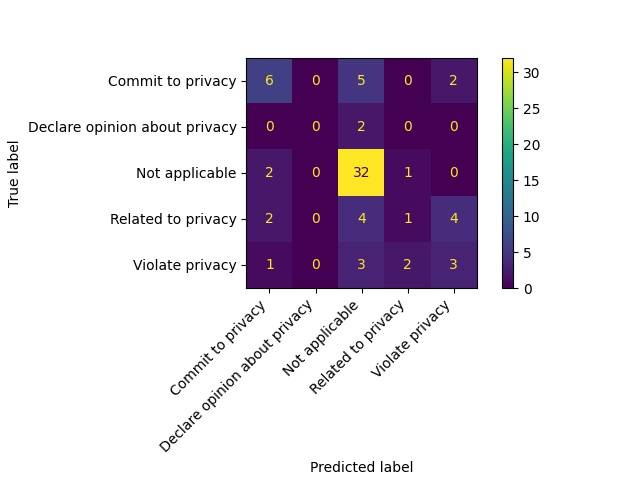
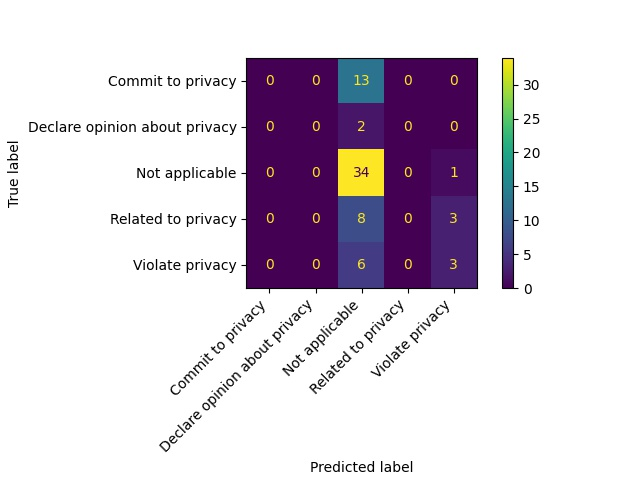
first results with mixed dictionary

diff --git a/AIclassifier.py b/AIclassifier.py
@@ -47,6 +47,7 @@ def create_vectors_list(sents, conversion_dict):
     unk_count = 0
     vectors_list = []
     sent_bigrams_vector = []
+    sent_mixed_vector = []
     
     for sent in sents:
         sent_doc = clean_corpus(sent) 
@@ -57,33 +58,40 @@ def create_vectors_list(sents, conversion_dict):
         sent_bigram = []
         for i in range(0, (len(sent_doc)-1)):
             sent_bigram.append(sent_doc[i].lower()+" "+sent_doc[i+1].lower())
-        print(sent_bigram)
+        #print(sent_bigram)
         sent_tokens_list = []
         sent_bigrams_list = []
         sent_vector = []
-        #for token in sent_doc:  
-        #    if token.lower() not in conversion_dict: 
-        #        sent_tokens_list.append("unk")
-        #        unk_count += 1
-        #    else:
-        #        sent_tokens_list.append(token.lower())
-        #    sent_vector = numpy.append(sent_vector, conversion_dict[sent_tokens_list[-1]])
-        #    if len(sent_vector) > 0:
-        #        sent_vector = sent_vector.astype(int)
+        #print(sent_doc)
+        #print(sent_bigram)
+        for token in sent_doc:  
+            if token.lower() not in conversion_dict: 
+                #sent_tokens_list.append("unk")
+                #unk_count += 1
+                pass
+            else:
+                print(token)
+                sent_tokens_list.append(token.lower())
+                sent_vector = numpy.append(sent_vector, conversion_dict[sent_tokens_list[-1]]) # remove one tab to go back to considering unk 
+            if len(sent_vector) > 0:
+                sent_vector = sent_vector.astype(int)
+        #print("sent vector token:",sent_vector)
         for bigram in sent_bigram:
             if bigram not in conversion_dict:
                 #sent_bigrams_list.append("unk")
                 #sent_bigrams_list = numpy.append(sent_bigrams_vector, "unk")
                 pass
             else:
+                print(bigram)
                 sent_bigrams_list = numpy.append(sent_bigrams_list, conversion_dict[bigram])
                 sent_bigrams_list = sent_bigrams_list.astype(int)
                 #sent_bigrams_list.append(bigram)
             #sent_bigrams_vector = numpy.append(sent_bigrams_vector, conversion_dict[sent_bigrams_list[-1]])
             #if len(sent_bigrams_list) > 0:
             #    sent_bigrams_list = sent_bigrams_list.astype(int)
-        #vectors_list.append(sent_vector)
-        print(sent_bigrams_vector)
+        #print("bigram", sent_bigrams_list)
+        vectors_list.append(sent_vector)
+        #print(sent_bigrams_vector)
         #print(sent_vector)
         #print(sent_bigram)
          
@@ -91,9 +99,18 @@ def create_vectors_list(sents, conversion_dict):
 	        #sent_bigram.append(element) #for bigram in sent_bigram:  
         #print(sent_bigram)
         sent_bigrams_vector.append(sent_bigrams_list)
+        if(len(sent_vector) > 0 and len(sent_bigrams_list) > 0):
+            sent_mixed_vector.append(numpy.concatenate([sent_vector,sent_bigrams_list]))
+        elif(len(sent_vector) > 0):
+            sent_mixed_vector.append(sent_vector)
+        else:
+            sent_mixed_vector.append(sent_bigrams_list)
+        
     #print("Unk count:", unk_count)
     #return vectors_list
-    return sent_bigrams_vector
+    #return sent_bigrams_vector
+    #print(sent_mixed_vector)
+    return sent_mixed_vector
 
 ####
 # MAIN
@@ -143,6 +160,22 @@ for bigram in bigrams_corpus_list:
 
 print(bigrams_to_numbers)
 
+# Mixed dictionary
+mixed_to_numbers = {}
+number_representation = 0
+mixed_corpus_list = []
+with open('features.txt', 'r') as file:
+    features_list = file.read()
+features_list = features_list.split('\n')
+print(features_list)
+
+for mixed in features_list:
+    mixed_to_numbers[mixed] = number_representation
+    number_representation += 1
+
+print(mixed_to_numbers)
+
+
 #for i in words_to_numbers:
 #    print(i, words_to_numbers[i])
 print("Length of the dictionary of word representations:",len(words_to_numbers))
@@ -157,9 +190,13 @@ print("Length of the dictionary of word representations:",len(words_to_numbers))
 #dev_vectors_list = create_vectors_list(sents_dev, words_to_numbers)
 #test_vectors_list = create_vectors_list(sents_test, words_to_numbers)
 
-train_vectors_list = create_vectors_list(sents_train, bigrams_to_numbers)
-dev_vectors_list = create_vectors_list(sents_dev, bigrams_to_numbers)
-test_vectors_list = create_vectors_list(sents_test, bigrams_to_numbers)
+#train_vectors_list = create_vectors_list(sents_train, bigrams_to_numbers)
+#dev_vectors_list = create_vectors_list(sents_dev, bigrams_to_numbers)
+#test_vectors_list = create_vectors_list(sents_test, bigrams_to_numbers)
+
+train_vectors_list = create_vectors_list(sents_train, mixed_to_numbers)
+dev_vectors_list = create_vectors_list(sents_dev, mixed_to_numbers)
+test_vectors_list = create_vectors_list(sents_test, mixed_to_numbers)
 
 # COUNT STATISTICS - HOW MANY WORDS WERE CONSIDERED UNK, AND HOW MANY OF EACH WORD
 
@@ -189,7 +226,7 @@ adaclassifier = AdaBoostClassifier(n_estimators=100, learning_rate=0.5) # n_est 
 # FLAG - CHECK WHICH CONFIGURATIONS SHOULD BE HERE - checked
 
 # Choosing best hyperparameters
-#params = [{'n_estimators': [25, 50, 75, 100, 200, 300], 'learning_rate': [0.5,0.75,0.9,1,1.1,1.2]}]
+#params = [{'n_estimators': [25, 50, 75, 100, 200, 300], 'learnsent_mixed.append()ing_rate': [0.5,0.75,0.9,1,1.1,1.2]}]
 #classifier = GridSearchCV(adaclassifier, params)
 
 #print(train_vectors_list)
@@ -216,14 +253,14 @@ importances = model.feature_importances_
 #print(sorted(importances))
 
 features = {}
-for i,(token,value) in enumerate(zip(bigrams_to_numbers, importances)):
+for i,(token,value) in enumerate(zip(bigrams_to_numbers, importances)): # IMPORTANTO TO CHANGE TO ADEQUATE DICT
     if (value != 0):
 	    #print('Feature:',token,'Score:',value)
         features[token] = value
 features = sorted([(value, key) for (key, value) in features.items()], reverse=True)
 #print(features)
-for feature in features:
-    print('Feature:',feature[1],'Score:',feature[0])
+#for feature in features:
+#    print('Feature:',feature[1],'Score:',feature[0])
 
 
 # DECISION TREE, WRONG FUNCTION, DELETE IT
@@ -245,23 +282,24 @@ test_list = test_labels_primary.tolist()
 dev_list = dev_labels_primary.tolist()
 pred_list = [pred for pred in predictions]
 labels=[1,3,5,4,2]
-#path='output/AI Classifier/1Label_confusion_matrix_NormTrue.jpg'
-#display_labels=['Commit to privacy', 'Declare opinion about privacy','Not applicable','Related to privacy','Violate privacy']
-#create_confusion_matrix(dev_list, pred_list, "true", path, labels, display_labels)
+path='output/AI Classifier/1Label_confusion_matrix_NormTrue.jpg'
+display_labels=['Commit to privacy', 'Declare opinion about privacy','Not applicable','Related to privacy','Violate privacy']
+create_confusion_matrix(dev_list, pred_list, "true", path, labels, display_labels)
 #create_confusion_matrix(test_list, pred_list, "true", path, labels, display_labels)
-#path='output/AI Classifier/1Label_confusion_matrix_NonNorm.jpg'
-#create_confusion_matrix(dev_list, pred_list, None, path, labels, display_labels)
+path='output/AI Classifier/1Label_confusion_matrix_NonNorm.jpg'
+create_confusion_matrix(dev_list, pred_list, None, path, labels, display_labels)
 #create_confusion_matrix(test_list, pred_list, None, path, labels, display_labels)
 
 # FLAG - CHECK IF CONFUSION MATRIX IS CORRECT FOR EVERY LABEL
 
+path='output/AI Classifier/1labelPredictionsStatsMixed.txt'
 #path='output/AI Classifier/1labelPredictionsStatsBigram.txt'
 #path='output/AI Classifier/1labelPredictionsStatsDev.txt'
 #path='output/AI Classifier/1labelPredictionsStatsTest.txt'
-#os.makedirs(os.path.dirname(path), exist_ok=True)
-#with open(path, 'w') as file:
-#    print("Performance measures\n", file=file)
-#write_output_stats_file(path, "Bigram", dev_labels_primary, predictions, labels)
+os.makedirs(os.path.dirname(path), exist_ok=True)
+with open(path, 'w') as file:
+    print("Performance measures\n", file=file)
+write_output_stats_file(path, "Mixed", dev_labels_primary, predictions, labels)
 #write_output_stats_file(path, "Dev", dev_labels_primary, predictions, labels)
 #write_output_stats_file(path, "Test", test_labels_primary, predictions, labels)
 
